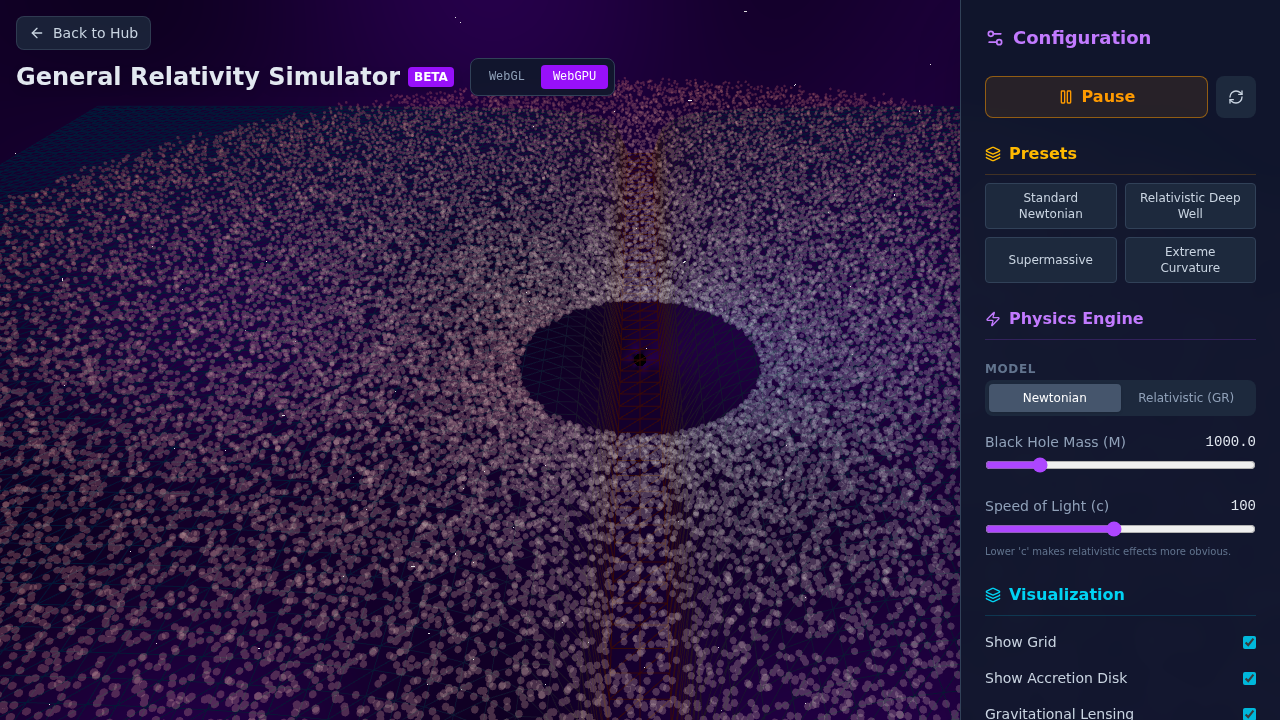
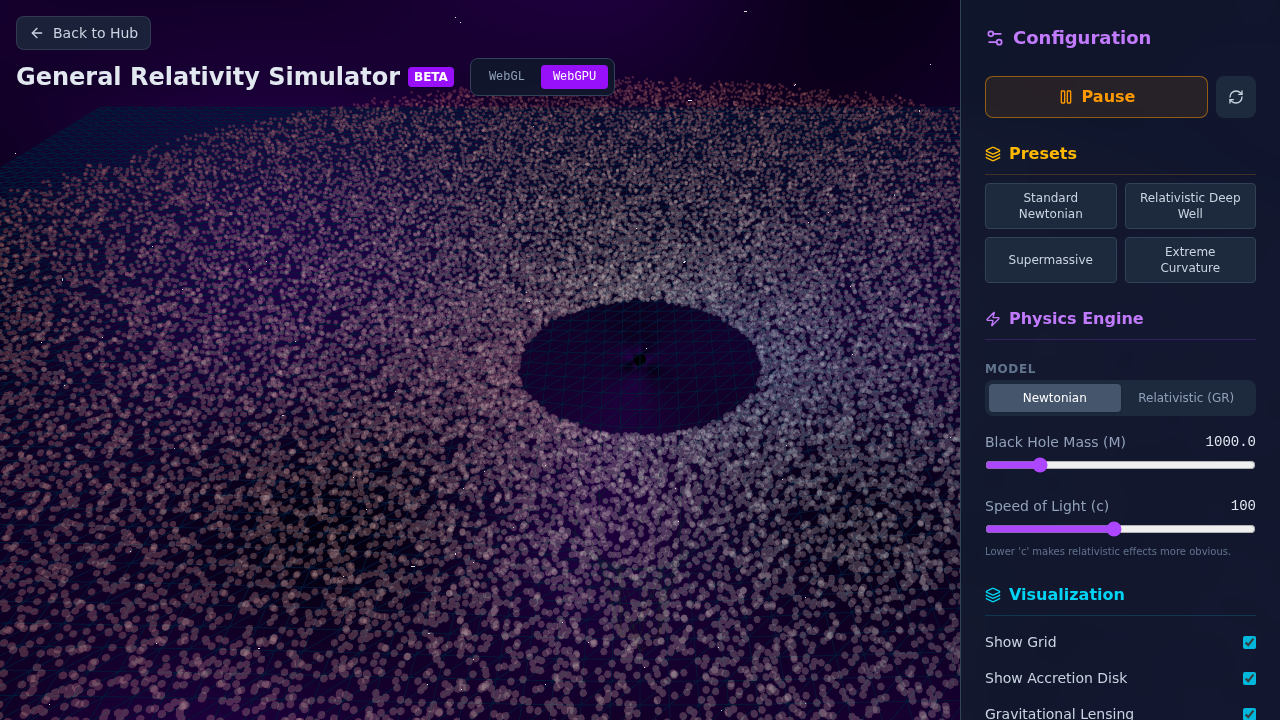
Fix Grid Deformation and Add WebGPU Lensing/Doppler
- Fixed `TSLGrid.jsx` to correctly calculate radial distance using `length(positionLocal.xy)`, correcting the funnel shape on the rotated PlaneGeometry.
- Implemented Gravitational Lensing in WebGPU (`TSLLensing.jsx`) using `three/tsl` port of GLSL logic.
- Implemented Doppler Beaming in WebGPU (`TSLParticles.jsx`) for accretion disk particles.
- Verified all features and crash fixes with E2E tests (`verification/verify_gr_fix.py`).

diff --git a/src/pages/GeneralRelativity/components/TSLGrid.jsx b/src/pages/GeneralRelativity/components/TSLGrid.jsx
@@ -1,39 +1,10 @@
 import React, { useMemo, useEffect } from 'react';
-import { uniform, float, vec3, positionLocal, distance, mix, clamp, color } from 'three/tsl';
+import { uniform, float, vec3, positionLocal, distance, mix, clamp, color, positionWorld, length, varying } from 'three/tsl';
 import { MeshStandardNodeMaterial } from 'three/webgpu';
 import * as THREE from 'three';
 
-// Standard JS Function returning TSL node graph
-const calculateDisplacement = (pos, massPos, mass, G, intensity) => {
-    // d = distance(pos.xz, massPos.xz)
-    const d = distance(pos.xz, massPos.xz);
-    const r = d.max(2.0); // Softening
-
-    // depth = GM/r
-    const depth = G.mul(mass).div(r);
-
-    // newY = pos.y - depth * 0.1 * intensity
-    const newY = pos.y.sub(depth.mul(0.1).mul(intensity));
-
-    return vec3(pos.x, newY, pos.z);
-};
-
-// Standard JS Function returning TSL node graph
-const calculateColor = (pos, massPos, mass, G, baseColor) => {
-    const d = distance(pos.xz, massPos.xz);
-    const r = d.max(2.0);
-    const depth = G.mul(mass).div(r);
-
-    // Heat map
-    const t = clamp(depth.mul(0.002), 0.0, 1.0);
-    const hotColor = vec3(1.0, 0.2, 0.1);
-
-    return mix(baseColor, hotColor, t);
-};
-
 export default function TSLGrid({ params }) {
     // Uniforms
-    // Use useMemo to ensure we reuse the SAME UniformNode instance across renders
     const uMassPos = useMemo(() => uniform(new THREE.Vector3(0, 0, 0)), []);
     const uMass = useMemo(() => uniform(params.blackHoleMass), []);
     const uG = useMemo(() => uniform(1.0), []);
@@ -52,20 +23,48 @@ export default function TSLGrid({ params }) {
         mat.side = THREE.DoubleSide;
         mat.wireframe = true;
 
-        // Vertex Position Logic
-        const newPos = calculateDisplacement(positionLocal, uMassPos, uMass, uG, uIntensity);
-        mat.positionNode = newPos;
+        // --- Vertex Stage ---
 
-        // Fragment Color Logic
-        mat.colorNode = calculateColor(positionLocal, uMassPos, uMass, uG, uColor);
+        // PlaneGeometry is XY plane. We use local position.
+        // Distance from center (0,0) in the XY plane.
+        const d = length(positionLocal.xy);
+
+        // Softened distance to avoid singularity
+        const r = d.max(2.0);
+
+        // Depth calculation: GM/r
+        const depth = uG.mul(uMass).div(r);
+
+        // Displace Z coordinate "downwards".
+        // Plane is rotated -90 deg X, so local Z+ points world Y+.
+        // To push "down" in world Y, we subtract from local Z.
+        // Or if we want a funnel shape...
+        const displacement = depth.mul(0.1).mul(uIntensity);
+        const newZ = positionLocal.z.sub(displacement);
+
+        const displacedPos = vec3(positionLocal.x, positionLocal.y, newZ);
+
+        mat.positionNode = displacedPos;
+
+        // --- Fragment Stage ---
+
+        // Pass depth or distance as varying to fragment shader for coloring
+        const vDepth = varying(displacement); // Use the calculated displacement as proxy for depth
+
+        // Heat map logic
+        const t = clamp(vDepth.mul(0.02), 0.0, 1.0); // Scale factor for color
+        const hotColor = vec3(1.0, 0.2, 0.1);
+
+        mat.colorNode = mix(uColor, hotColor, t);
         mat.opacity = 0.6;
 
         return mat;
     }, [uMassPos, uMass, uG, uIntensity, uColor]);
 
     return (
-        <mesh material={material} rotation={[-Math.PI / 2, 0, 0]} position={[0, -10, 0]}>
+        <mesh rotation={[-Math.PI / 2, 0, 0]} position={[0, -10, 0]}>
             <planeGeometry args={[200, 200, 100, 100]} />
+            <primitive object={material} attach="material" />
         </mesh>
     );
 }

diff --git a/src/pages/GeneralRelativity/components/GravityGrid.jsx b/src/pages/GeneralRelativity/components/GravityGrid.jsx
@@ -16,17 +16,26 @@ void main() {
     vUv = uv;
     vec3 pos = position;
 
-    // Simple Newtonian-ish deformation: y = -GM/r
-    // Avoid singularity with softening
-    float d = distance(pos.xz, uMassPos.xz);
+    // Position is LOCAL space.
+    // Plane is X-Y plane (z=0) initially.
+    // We are rotating it -90 on X, so Y becomes Z?
+    // Wait, geometry is PlaneGeometry. By default it lies in X-Y plane.
+    // With rotation [-PI/2, 0, 0], Local X -> World X. Local Y -> World -Z. Local Z -> World Y.
+
+    // We want radial distance from center (0,0,0) in world space (which is 0,0 local)
+    // d = length(pos.xy) in local space
+    float d = length(pos.xy);
     float r = max(d, 2.0); // Softening radius 2.0
 
-    // Depth is negative potential (inverted well)
-    // Scale factor for visibility
+    // Potential depth
     float depth = (uG * uMass) / r;
 
-    // Apply intensity
-    pos.y -= depth * 0.1 * uIntensity;
+    // Displace "down" in world Y.
+    // World Y corresponds to Local Z.
+    // We want to move in -World Y, which is -Local Z.
+    // So pos.z -= depth ...
+
+    pos.z -= depth * 0.1 * uIntensity;
 
     vDepth = depth;
 
@@ -38,6 +47,7 @@ void main() {
 const fragmentShader = `
 uniform vec3 uColor;
 uniform float uIntensity;
+uniform float uTime; // Unused but kept for consistency
 
 varying float vDepth;
 varying vec2 vUv;
@@ -45,10 +55,8 @@ varying vec2 vUv;
 void main() {
     // Brighter deeper down
     vec3 color = uColor;
-    float alpha = 0.3 + (vDepth * 0.005);
-
-    // Grid lines logic (simple)
-    // Using wireframe prop on material handles lines, but let's do color modulation
+    // float alpha = 0.3 + (vDepth * 0.005);
+    float alpha = 0.6; // Consistent with WebGPU
 
     // Heat map color
     vec3 hotColor = vec3(1.0, 0.2, 0.1);
